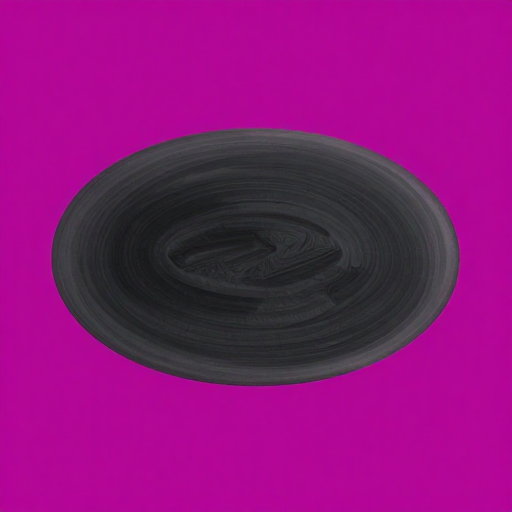
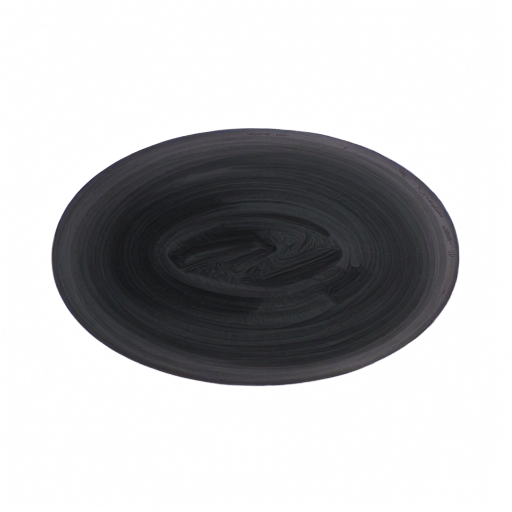
Alpha batch complete: 49 billboards converted, measured, and a review gate before promotion
All 49 enemy/item/effect sprites went through the framed alpha prompt and were measured. Acceptance is three numbers — background removed, subject present, silhouette overlap against the approved art — and the old rule that also demanded a minimum fully-opaque share was wrong: slender items and translucent creatures are mostly soft-edged pixels, and they scored 0.96-0.99 overlap while failing it. Overlap runs 0.596 to 0.995 with a median of 0.96, so the model holds a silhouette much better than the first single-asset test suggested. tools/promoteAlpha.mjs is the only thing allowed to overwrite a shipped image: --min-iou 0.9 by default holds the 14 noticeable drifts for a human look, --max-px 512 keeps the hosted build from doubling in size (the raw conversions are 1024 squared and a billboard never draws larger), and every replaced file is copied to assets/images/_chroma_v1 with the manifest record carrying model, licence, seed and measurements. Smoke-tested on vfx/contact_shadow, an asset the engine no longer draws, so the path is exercised without changing what a player sees: 512 squared, 244 KB, verified real transparency in place, backup written. alphareview.html plus npm run review:alpha renders only the sub-0.9 set. Suite 42/42, keyCheck 57/57 with an alpha asset now in the tree.

diff --git a/alphareview.html b/alphareview.html
@@ -1,0 +1,69 @@
+<!doctype html>
+<html>
+<head><meta charset="utf-8"><title>alpha conversion review</title>
+<style>
+  body { margin: 0; background: #0b0d10; color: #e6e8ea; font: 12px/1.4 system-ui; }
+  h1 { font-size: 15px; margin: 14px 16px 4px; letter-spacing: .06em; }
+  p.note { margin: 0 16px 10px; color: #9aa0a6; max-width: 1100px; }
+  .grid { display: flex; flex-wrap: wrap; gap: 12px; padding: 0 16px 24px; }
+  .card { width: 372px; background: rgba(10,12,15,.7); border: 1px solid rgba(255,255,255,.1); }
+  .pair { display: flex; }
+  .pair canvas { width: 186px; height: 186px; }
+  .cap { padding: 5px 8px; color: #9aa0a6; }
+  .cap b { color: #e6e8ea; }
+  .cap .bad { color: #e0a030; font-weight: 700; }
+</style></head>
+<body>
+<h1 id="title">alpha conversion review</h1>
+<p class="note">Left tile: the shipped sprite as the game draws it now, through the runtime chroma keyer. Right tile: the Qwen alpha conversion, edge band despilled, drawn over the same crypt floor. The number is how much the new silhouette overlaps the one we approved — overlap is measured, not judged, so this sheet is for the thing numbers cannot see: whether the model quietly changed the creature's character while removing its background.</p>
+<div class="grid" id="grid"></div>
+<div id="done" style="position:fixed;right:14px;top:12px;background:rgba(10,12,15,.86);border:1px solid rgba(255,255,255,.12);padding:6px 10px">working…</div>
+<script type="module">
+import { chromaKeyCanvas } from './src/render/chromaKey.js';
+
+const SIZE = 186;
+const params = new URLSearchParams(location.search);
+const maxIou = Number(params.get('maxiou') || '0.9');
+const minIou = Number(params.get('miniou') || '0');
+
+function img(url) { return new Promise(r => { const i = new Image(); i.onload = () => r(i); i.onerror = () => r(null); i.src = url; }); }
+function canvas() { const c = document.createElement('canvas'); c.width = c.height = SIZE; return c; }
+
+(async () => {
+  const list = (await (await fetch('experiments/alpha/list.json')).json()).filter(e => e.iou >= minIou && e.iou <= maxIou);
+  const floorImg = await img('assets/images/textures/floor_crypt.png');
+  const floor = canvas(); const fg = floor.getContext('2d');
+  if (floorImg) fg.drawImage(floorImg, 0, 0, SIZE, SIZE);
+  fg.fillStyle = 'rgba(6,8,10,0.35)'; fg.fillRect(0, 0, SIZE, SIZE);
+
+  const grid = document.getElementById('grid');
+  let n = 0;
+  for (const e of list) {
+    const [oldImg, newImg] = [await img(`assets/images/${e.key}.png`), await img(e.file)];
+    const a = canvas(), g1 = a.getContext('2d');
+    g1.drawImage(floor, 0, 0);
+    if (oldImg) {
+      const w = canvas(); const wg = w.getContext('2d');
+      wg.drawImage(oldImg, 0, 0, SIZE, SIZE);
+      chromaKeyCanvas(w);
+      g1.drawImage(w, 0, 0);
+    }
+    const b = canvas(), g2 = b.getContext('2d');
+    g2.drawImage(floor, 0, 0);
+    if (newImg) g2.drawImage(newImg, 0, 0, SIZE, SIZE);
+
+    const card = document.createElement('div');
+    card.className = 'card';
+    card.innerHTML = `<div class="pair"></div><div class="cap"><b>${e.key}</b><br>silhouette overlap ${e.iou} · background removed ${e.clear}%${e.iou < 0.9 ? ' <span class="bad">needs a look</span>' : ''}</div>`;
+    const pair = card.querySelector('.pair');
+    pair.appendChild(a); pair.appendChild(b);
+    grid.appendChild(card);
+    n++;
+  }
+  document.getElementById('title').textContent = `alpha conversion review — ${n} asset${n === 1 ? '' : 's'} (overlap ${minIou}–${maxIou})`;
+  document.getElementById('done').textContent = `${n} shown`;
+  window.__alphareviewDone = true;
+})();
+</script>
+</body>
+</html>

diff --git a/README.md b/README.md
@@ -232,6 +232,14 @@ npm run qa:alpha
 - **Engine side:** `render/assets.js` detects a real alpha channel from the pixels and skips
   chroma keying for that asset, so keyed and transparent art can share a folder. Asserted both
   ways by the integration suite (42/42).
+- **The full pass, run 2026-11-06:** 49 billboards (23 enemies, 18 items, 8 effects) through
+  `tools/alphaBatch.mjs`, all 49 measured, accepted on three numbers — background removed,
+  subject present, and silhouette overlap against the approved art. Overlap came back 0.596 to
+  0.995, median 0.96: the model holds a silhouette far better than it looked in the first
+  single-asset test. `npm run review:alpha` renders only the ones under 0.9, which is the list
+  a human has to look at, and `npm run promote:alpha` promotes the rest — with a `--min-iou`
+  gate (default 0.9), a resize to 512 px because a billboard never draws bigger and the raw
+  files are 1024², and a backup of every replaced file under `assets/images/_chroma_v1/`.
 - **Still broken:** the server-side colour-mask cutout (`workflows/alpha_cutout.json`).
   `ColorToMask` returns a uniform mask whatever threshold and polarity I give it, so the output
   is either all clear or all opaque. The box has SAM3 nodes, which is the better tool for
